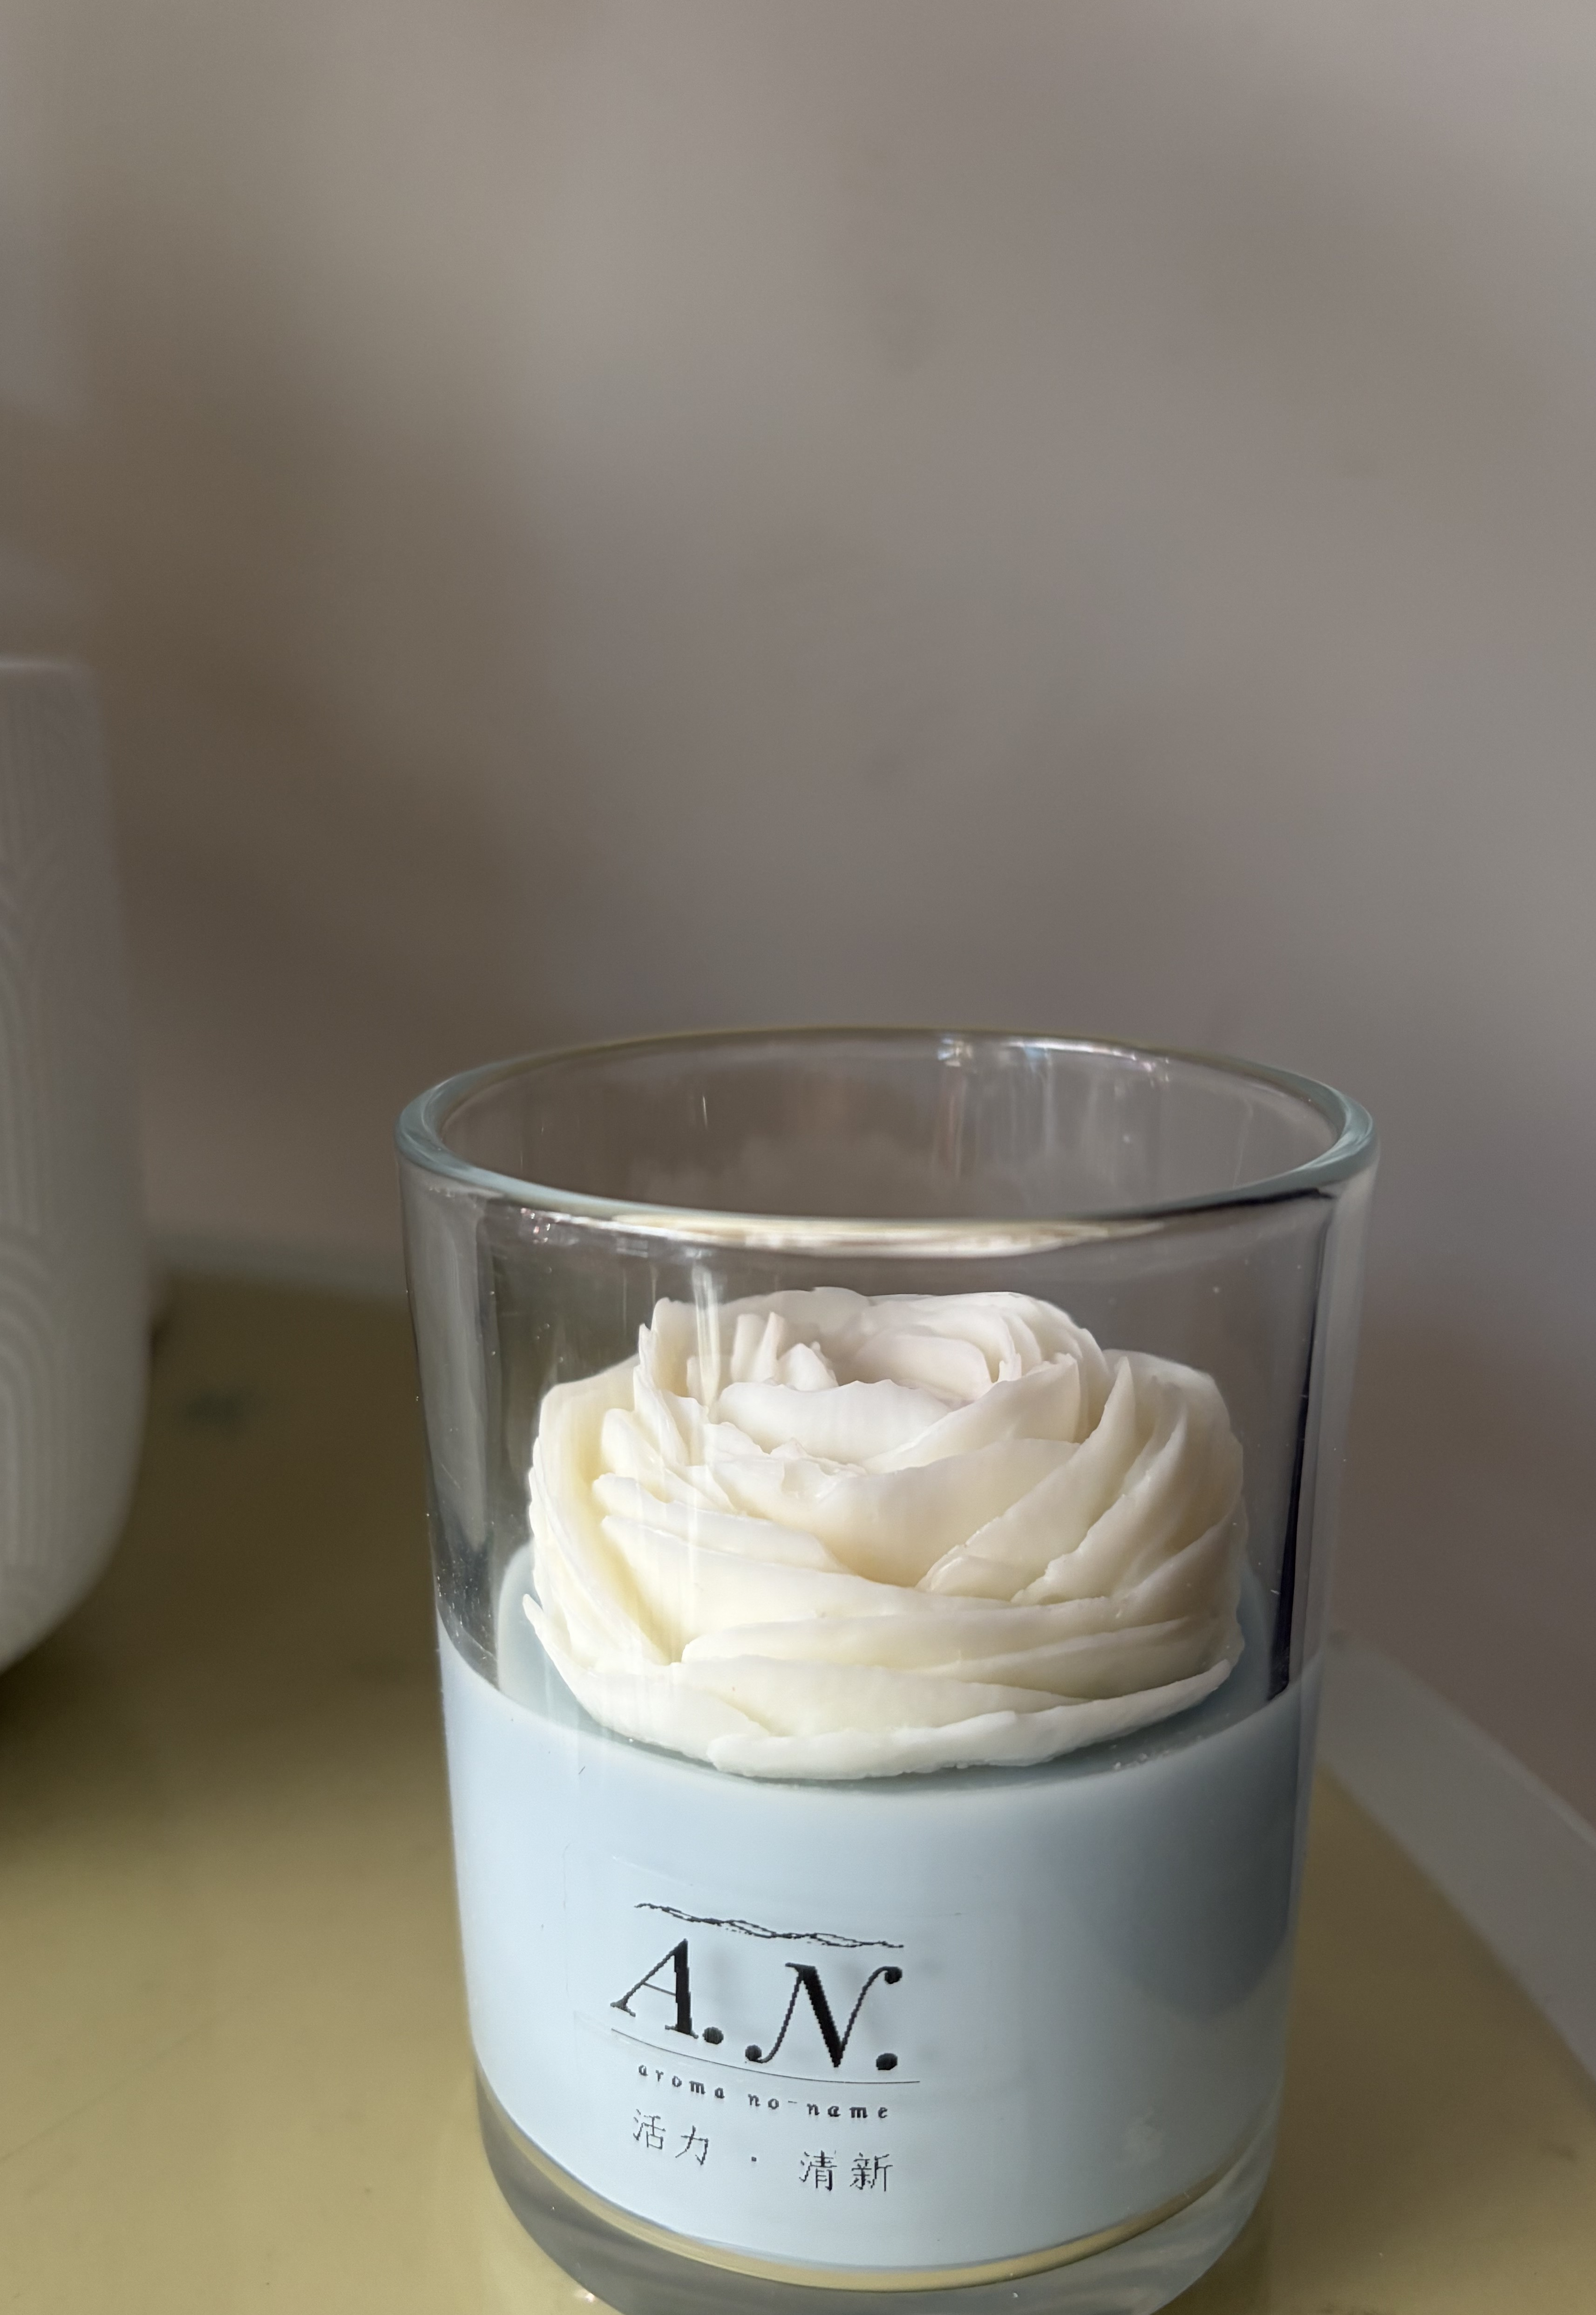
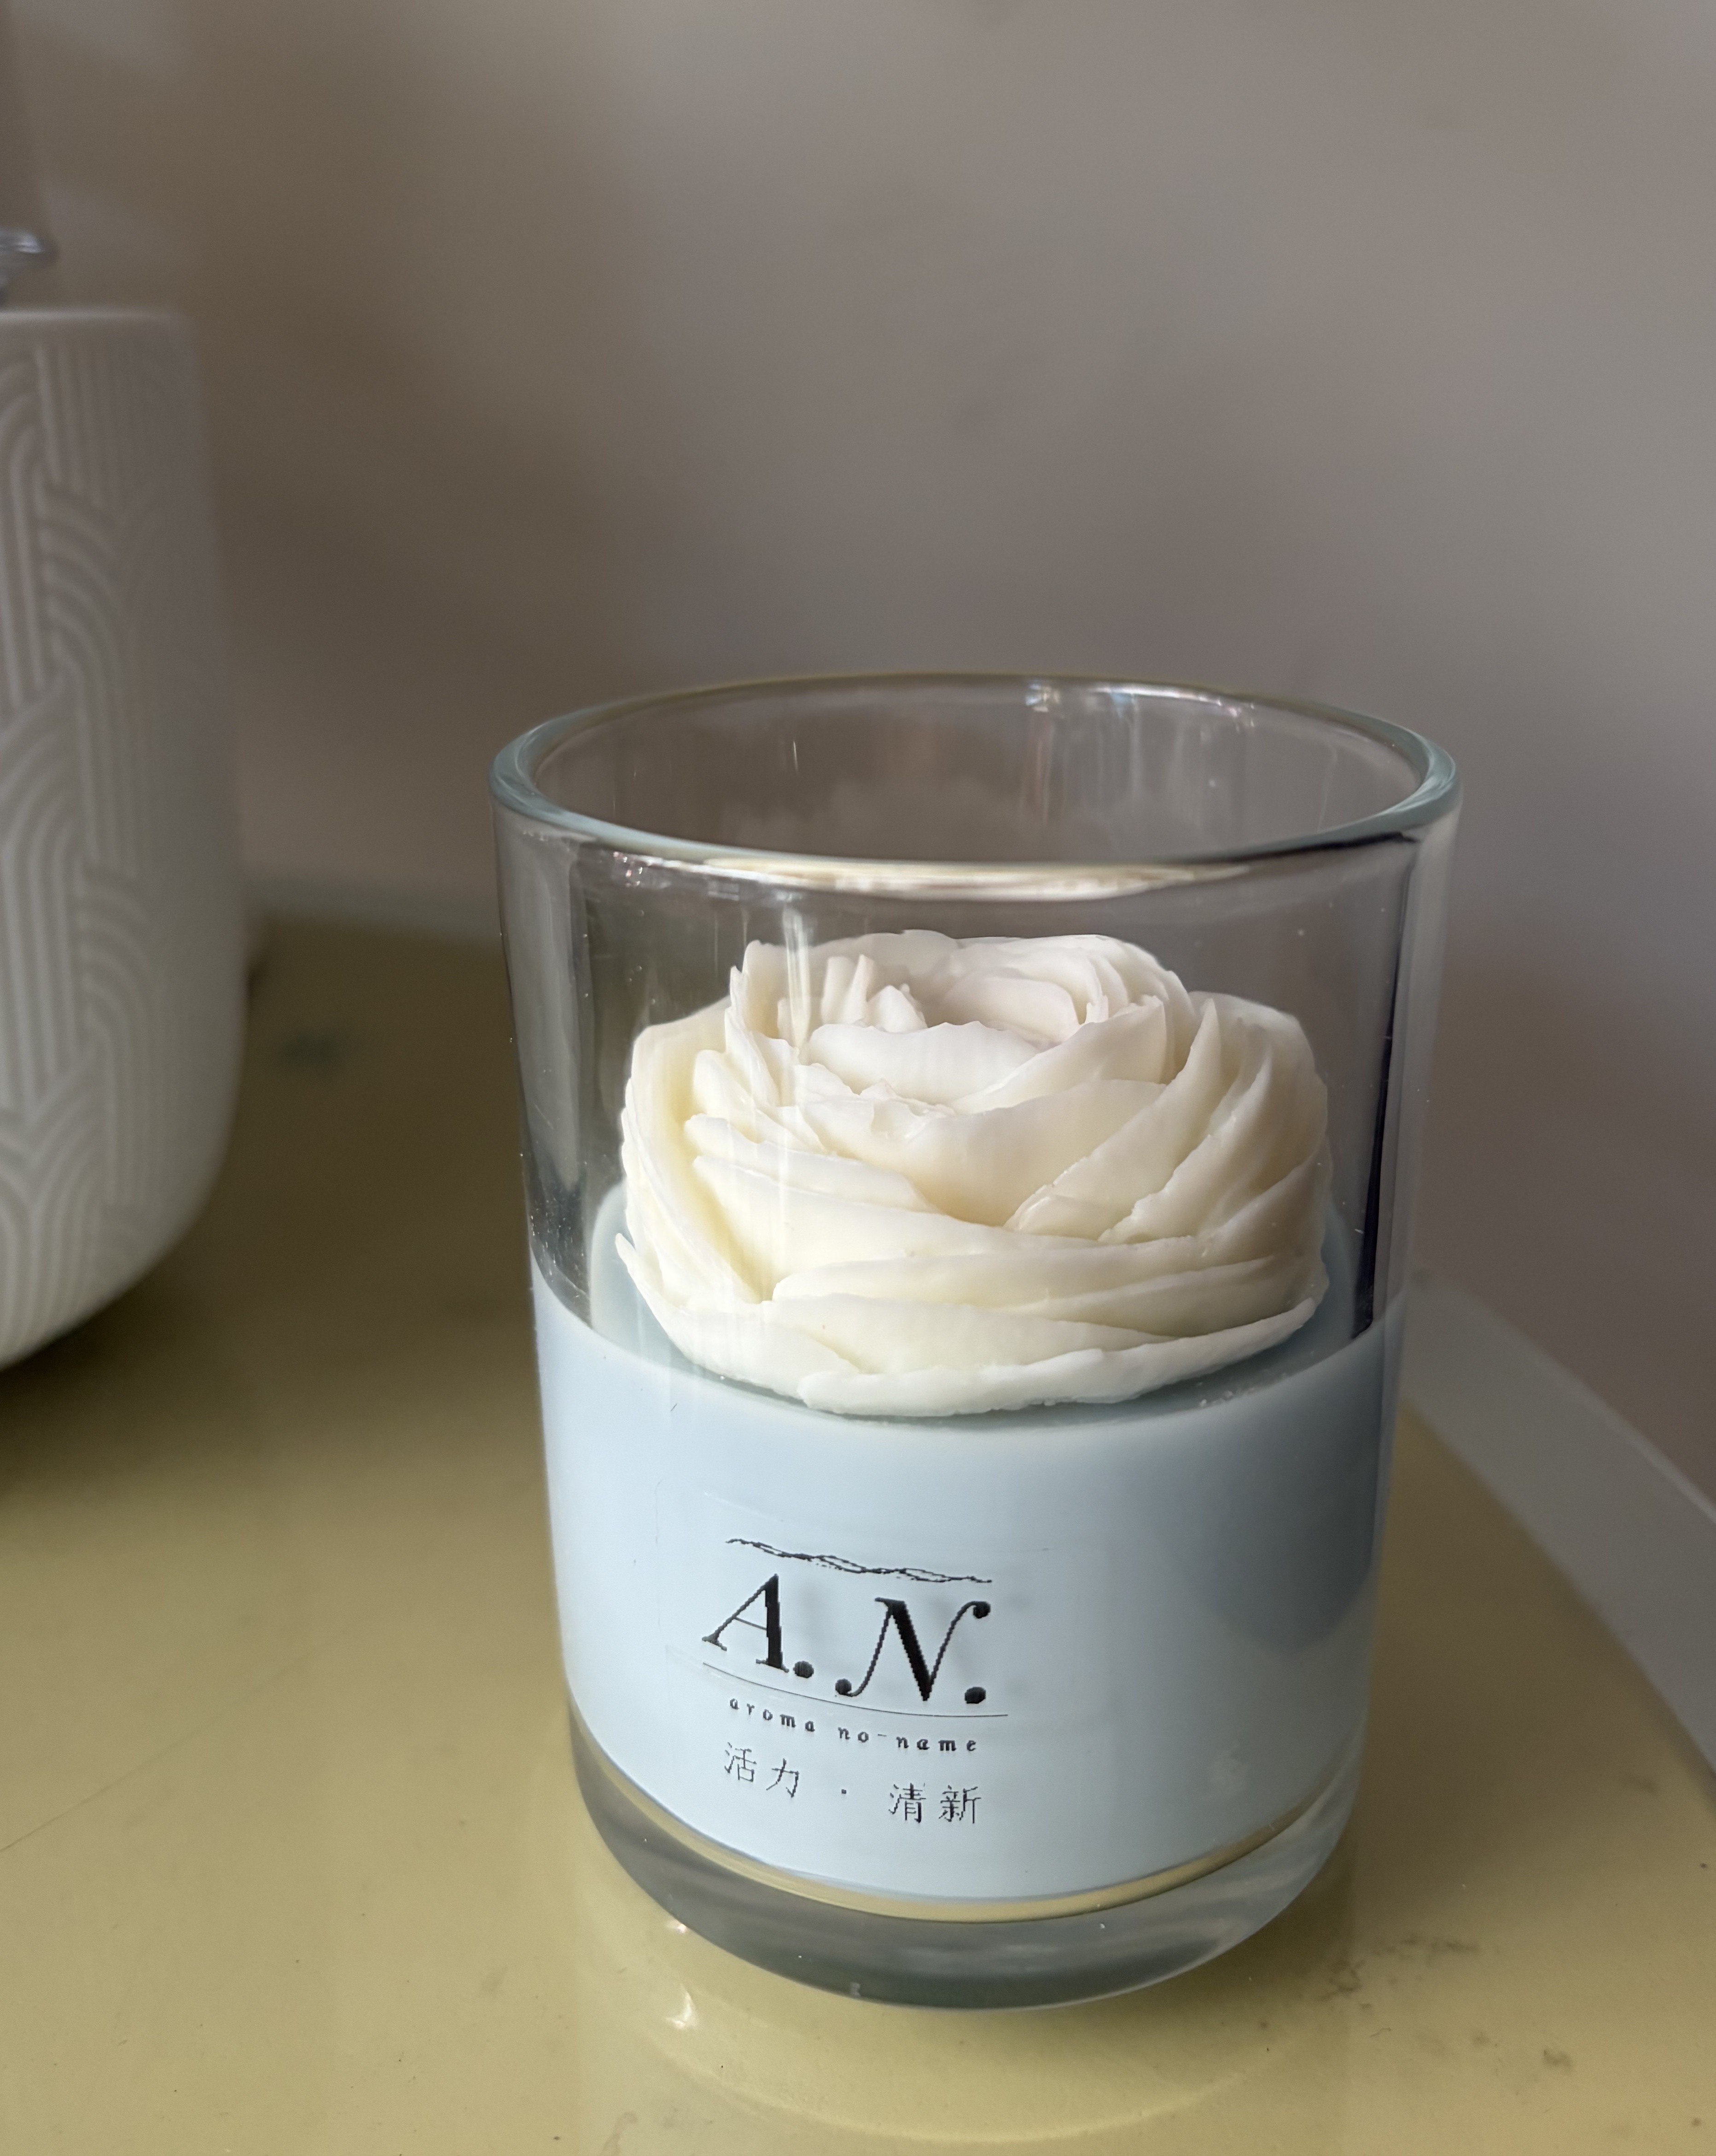
Add files via upload

diff --git a/04.html b/04.html
@@ -112,10 +112,8 @@
     <p class="page-subtitle reveal">冬日的朝陽</p>
   </div>
 
-  <!-- 照片1 刊頭 45度俯拍 -->
-  <div class="photo-contained reveal">
-    <img src="04_p1.jpg" alt="04 活力與清新">
-  </div>
+  <!-- 照片1 刊頭 滿版 -->
+  <img class="photo-full reveal" src="04_p1.jpg" alt="04 活力與清新">
 
   <div class="music-section">
     <p class="music-hint reveal">聽聽看，它的聲音。</p>